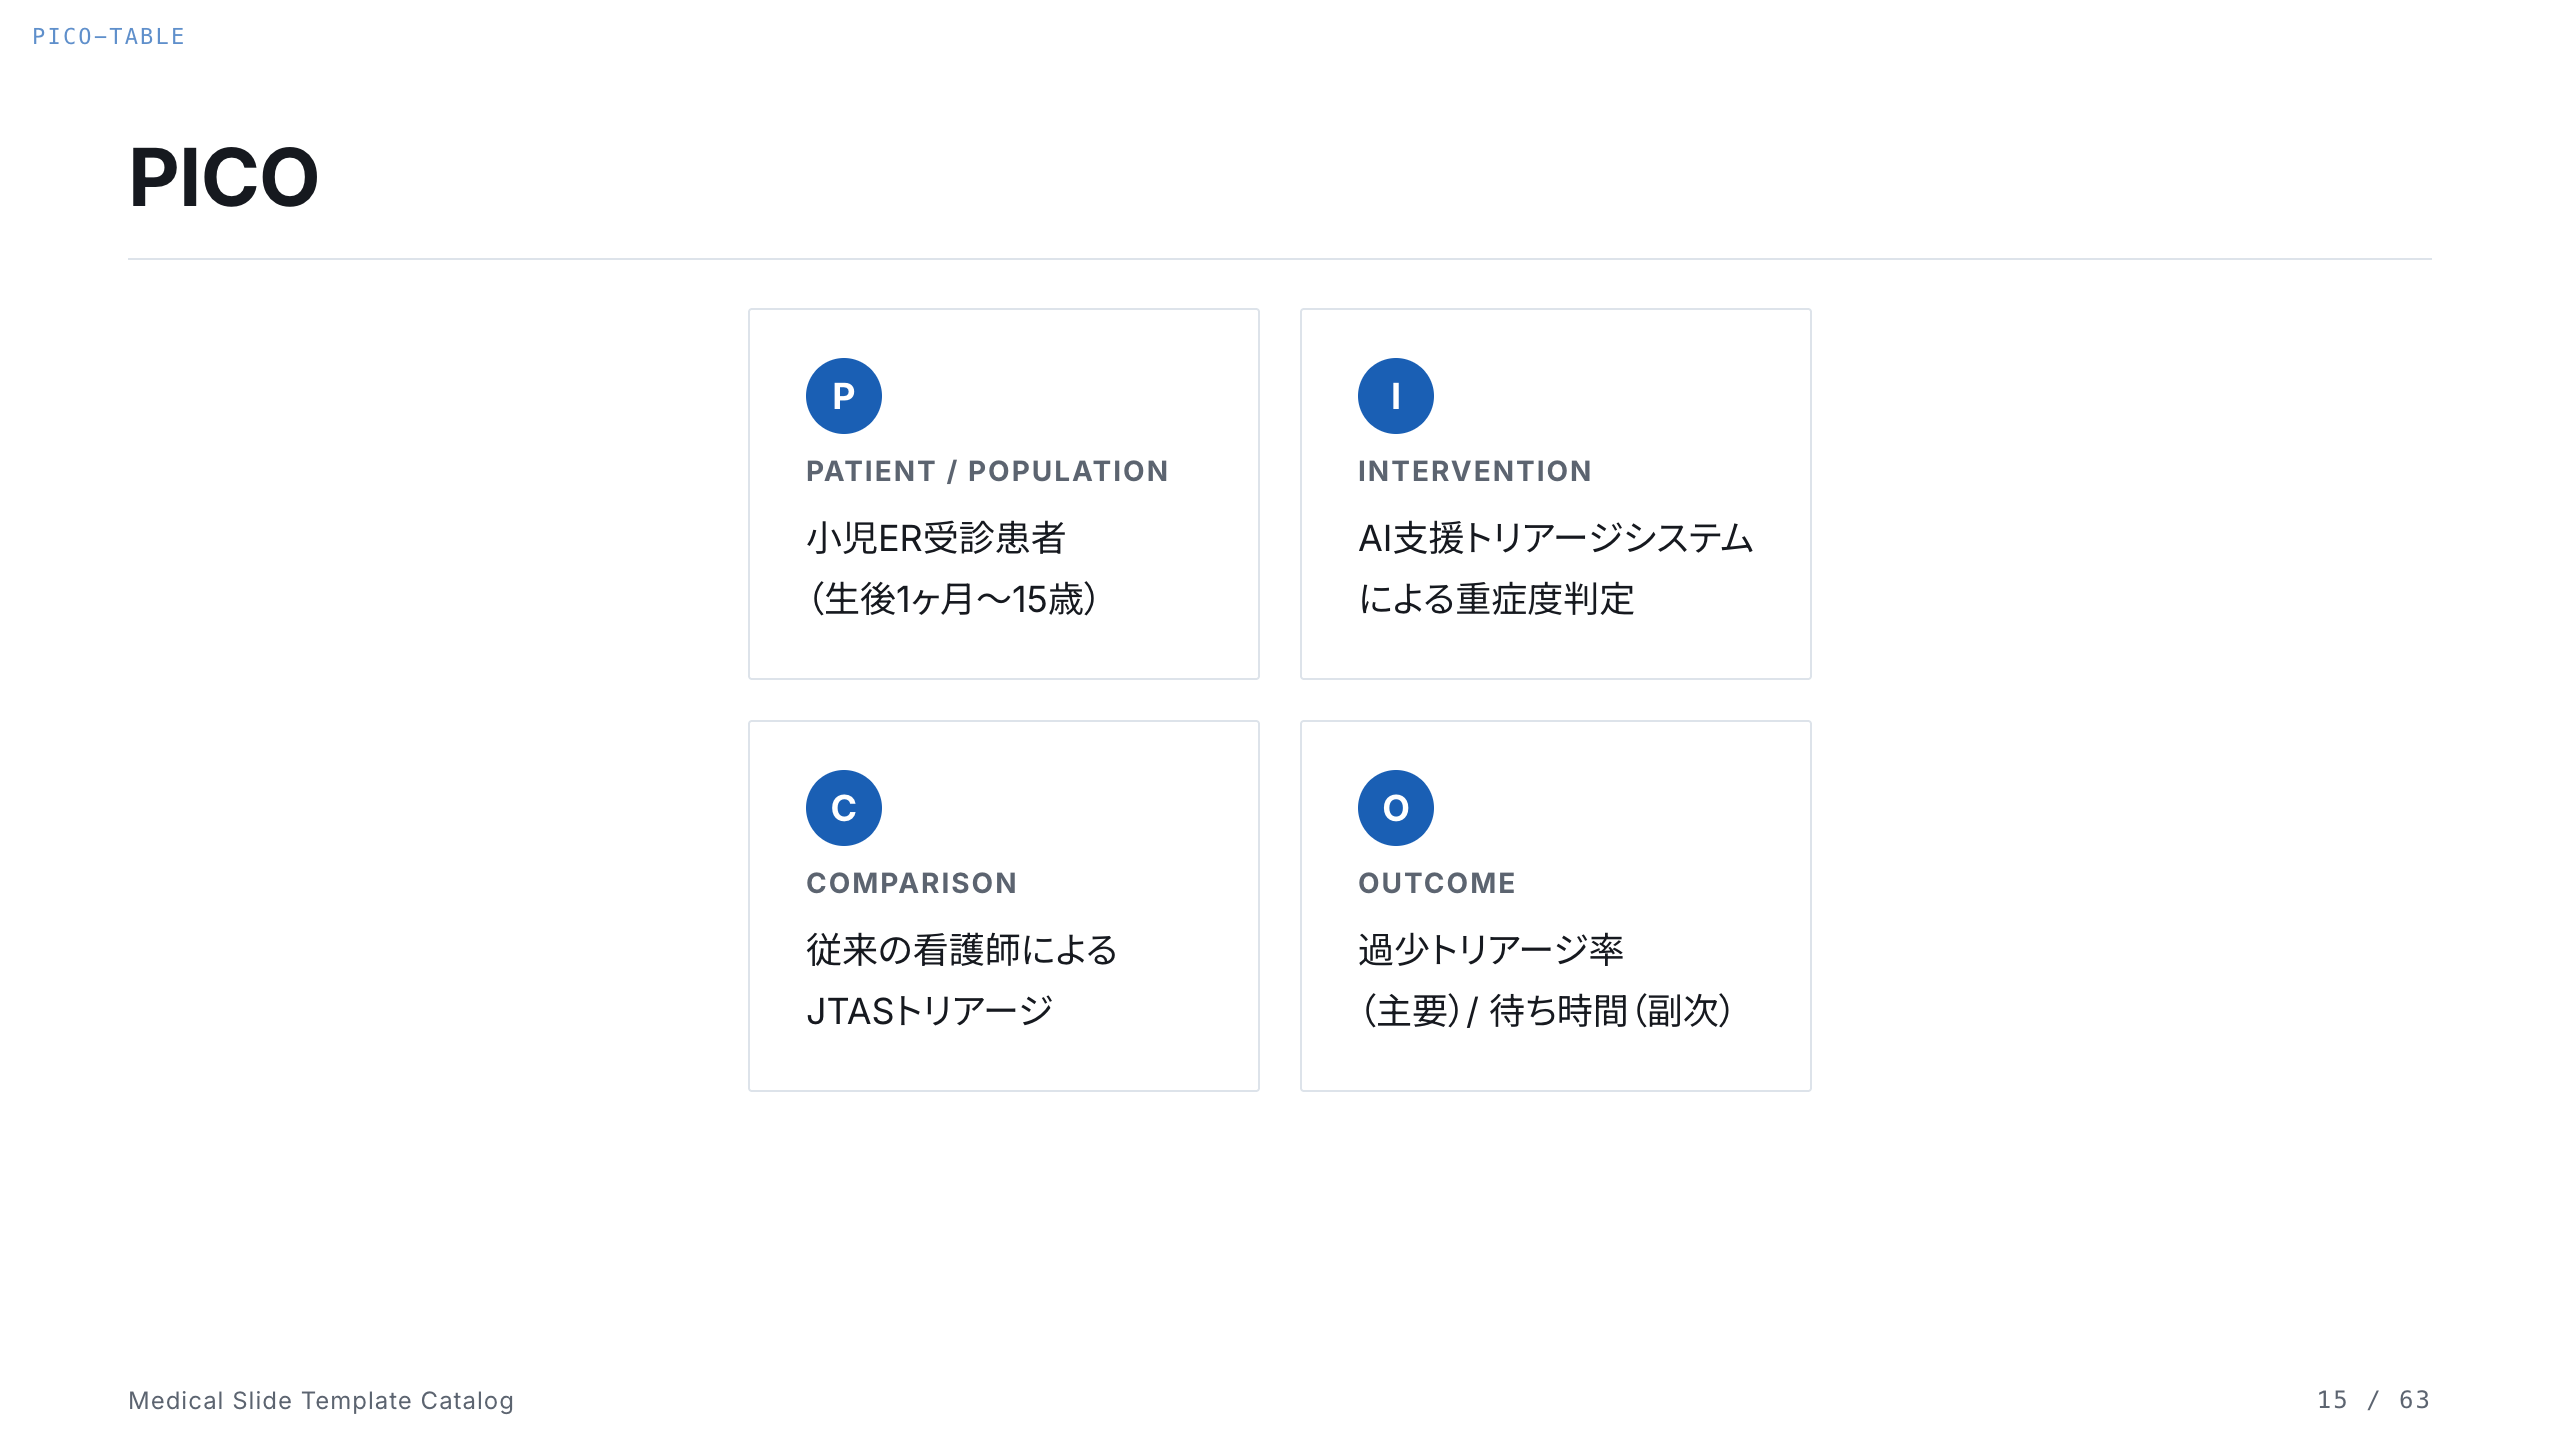
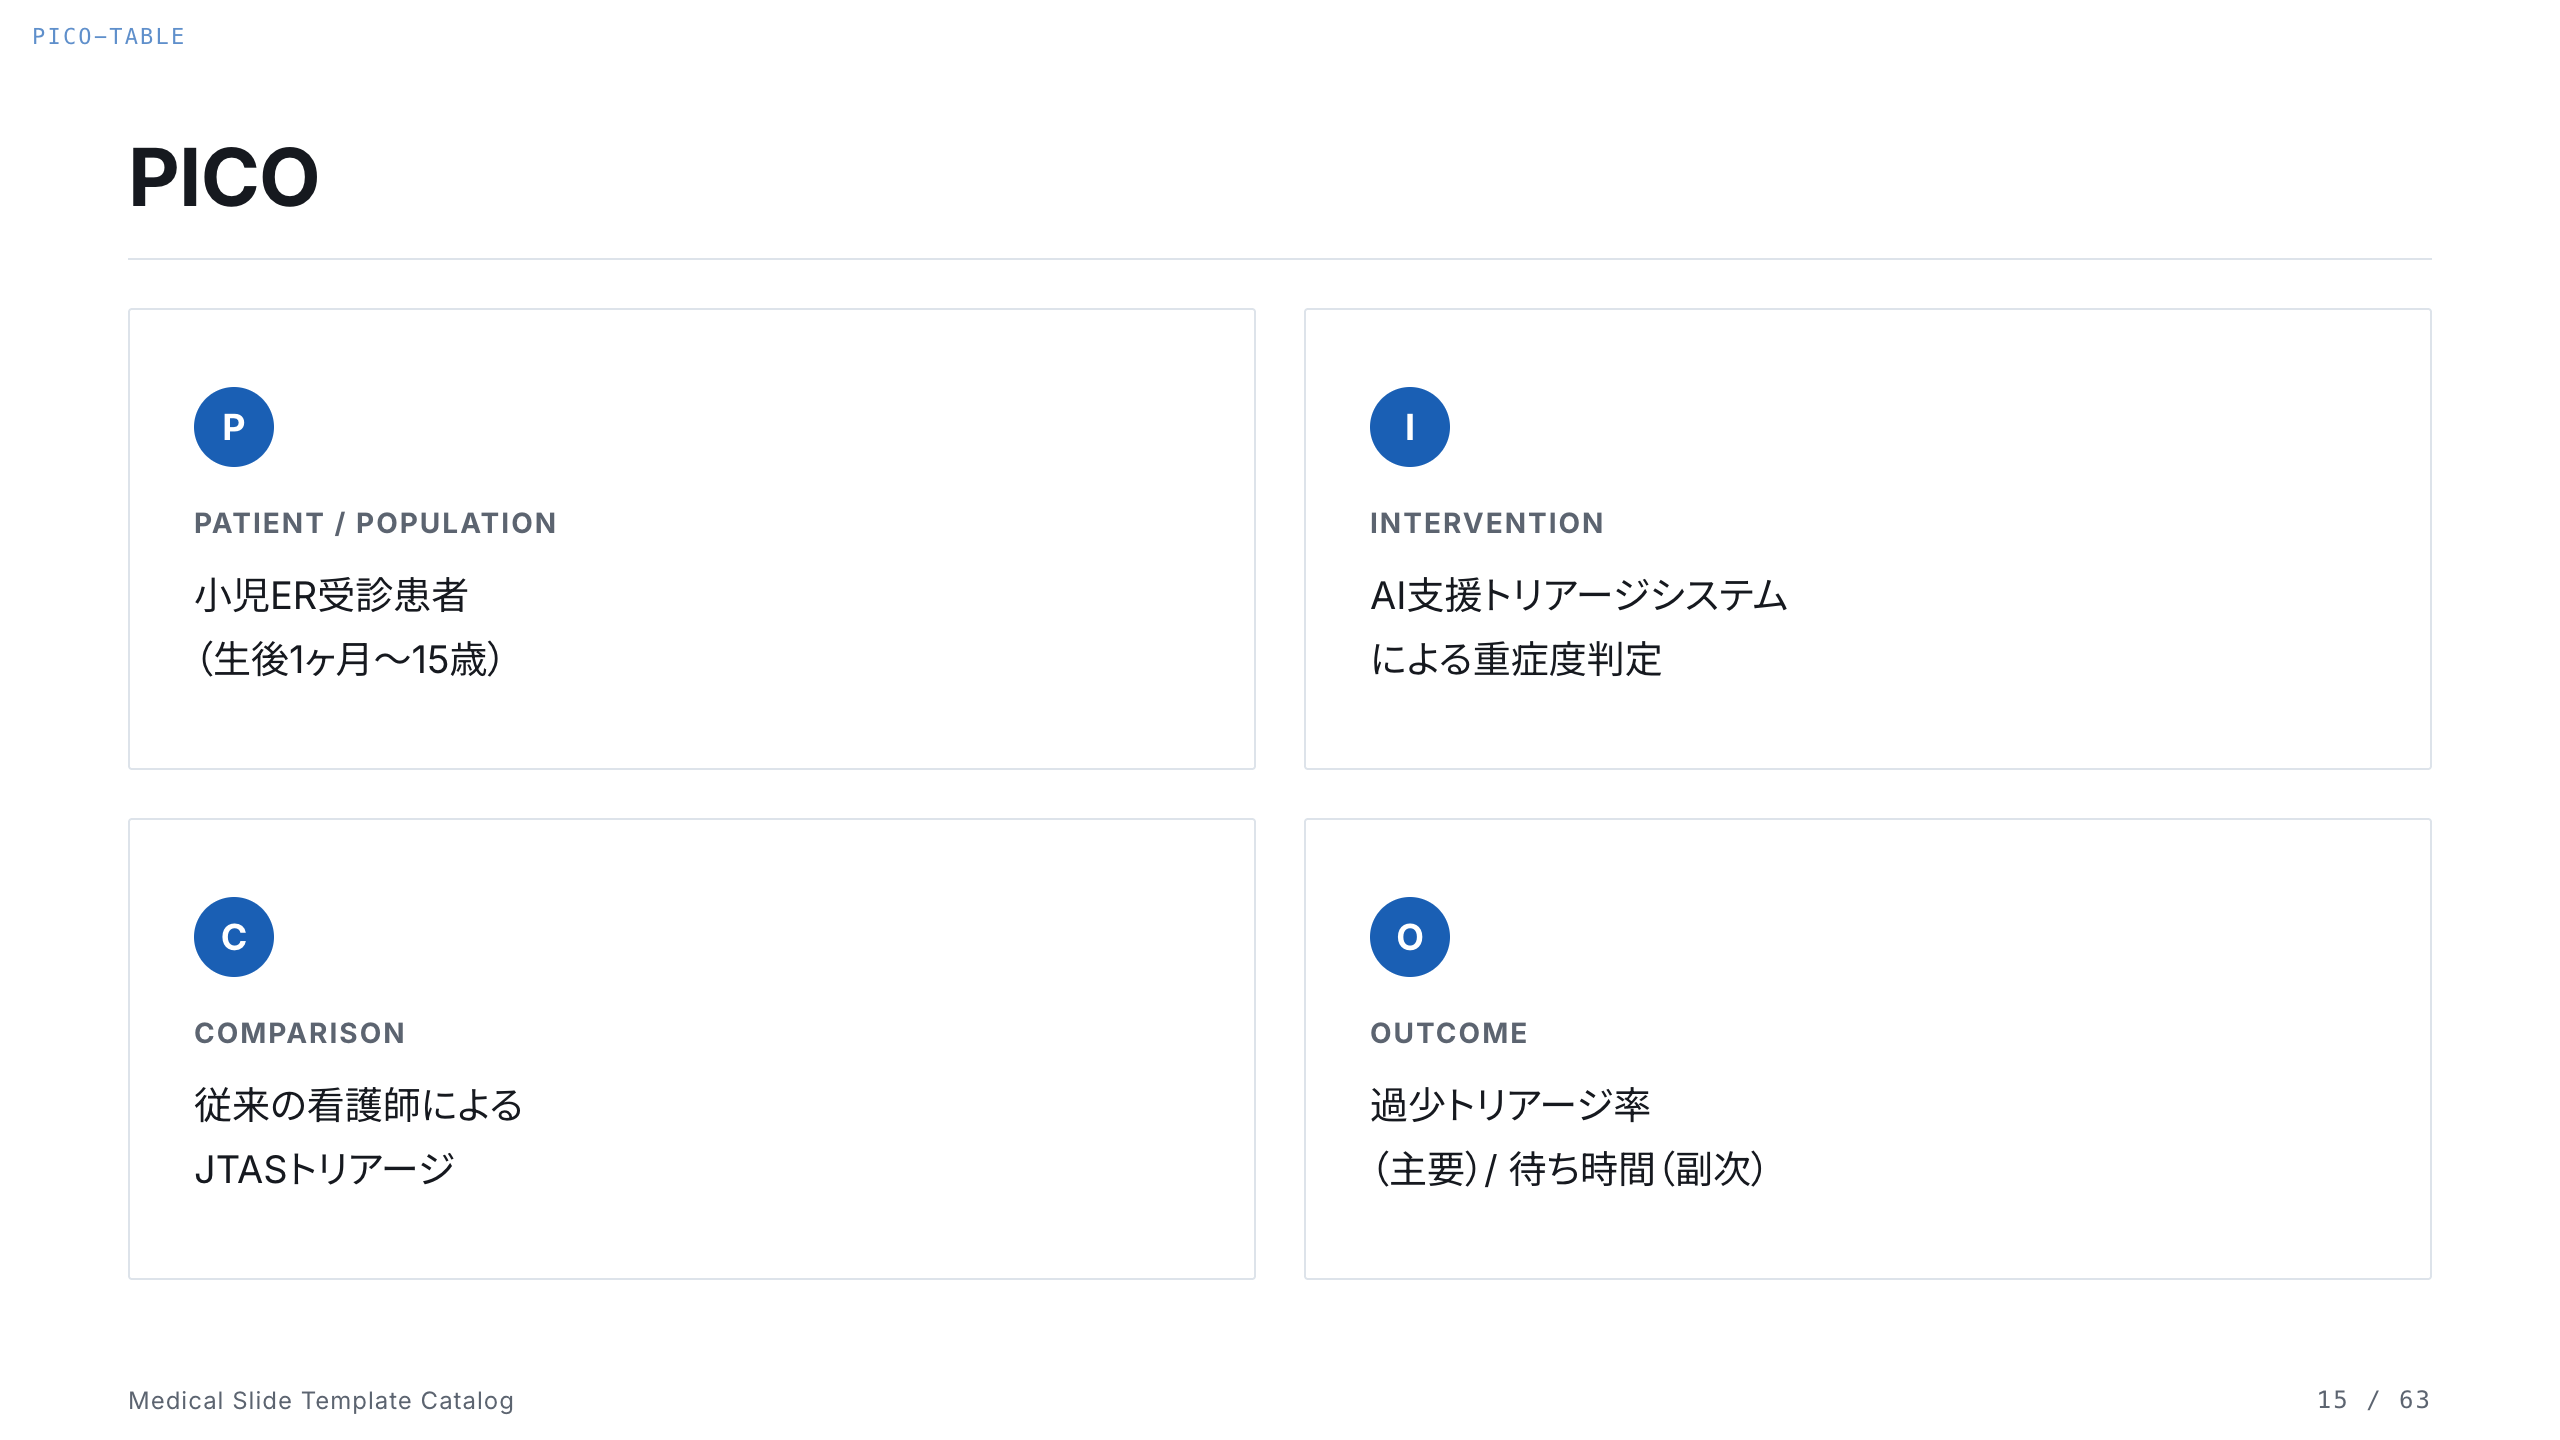
グリッドオーバーレイ（Gキー）＋PICOをグリッドに載せ替え (#4)
* prototype(grid): スライドグリッド＋Gキーオーバーレイをエンジンに試作

12カラム＋8pxベースライン＋余白フレームのデザインQAオーバーレイ。
既定は非表示・見た目への影響ゼロ。Gキーで body.grid-on をトグル。
slide-starterエンジンへ移植可能な非破壊レイヤー。

* feat(grid): Gキーのグリッドオーバーレイ＋PICOをグリッドに載せ替え

スライド設計のQAとして Müller-Brockmann 系の作図グリッドを導入。
- engine: 12カラム＋8pxベースライン＋余白フレームのオーバーレイを注入。
  Gキーで body.grid-on をトグル。既定は非表示・見た目への影響ゼロ。
  余白は --sp-xl（=.slide padding）連動でテーマに自動一致、テーマ非依存の
  マゼンタ線。
- PICO: 中央フロート(max-width/auto)を廃し、カードを cols1-6/7-12 に
  スナップ＋縦2行で充填＋ベースライン揃え（グリッドで既存スライドを
  調整した実例）。
- 15-pico.png 再生成。

---------

diff --git a/engine/slide.css b/engine/slide.css
@@ -158,3 +158,75 @@ body.capture .slide-ui { display: none !important; }
 
   .slide-ui { display: none !important; }
 }
+
+
+/* ============================================================
+   スライドグリッド（Müller-Brockmann系）＋ Gキーオーバーレイ
+   デザインQA用。既定は非表示。Gキーで body.grid-on をトグル。
+   余白はテーマの --sp-xl（=.slide の padding）に自動一致。
+   12カラム / 8pxベースライン。テーマ非依存のマゼンタ線。
+   見た目には一切影響しない（grid-on の時だけ重なる）。
+   ============================================================ */
+:root {
+  --grid-margin:   var(--sp-xl, 64px);
+  --grid-cols:     12;
+  --grid-gutter:   24px;
+  --grid-baseline: 8px;
+  --grid-lead:     24px;            /* leading = 3 × baseline */
+  --grid-fill:     rgba(232,28,92,.05);
+  --grid-line:     rgba(232,28,92,.55);   /* クラシックな製図マゼンタ */
+  --grid-minor:    rgba(232,28,92,.14);
+}
+
+.grid-overlay {
+  position: absolute;
+  inset: 0;
+  z-index: 90;
+  pointer-events: none;
+  opacity: 0;
+  transition: opacity .12s;
+}
+body.grid-on .grid-overlay { opacity: 1; }
+
+/* 12カラム（コンテンツと同じ余白ボックスに乗せる） */
+.grid-overlay .g-cols {
+  position: absolute;
+  inset: var(--grid-margin);
+  display: grid;
+  grid-template-columns: repeat(var(--grid-cols), 1fr);
+  column-gap: var(--grid-gutter);
+}
+.grid-overlay .g-cols span { background: var(--grid-fill); position: relative; }
+.grid-overlay .g-cols span::before {
+  content: attr(data-n);
+  position: absolute;
+  top: -15px; left: 0;
+  font: 9px/1 var(--font-mono, monospace);
+  letter-spacing: .05em;
+  color: var(--grid-line);
+}
+
+/* 8pxベースライン（24px毎に強い線、8px毎に細い線） */
+.grid-overlay .g-base {
+  position: absolute;
+  inset: var(--grid-margin);
+  background-image:
+    repeating-linear-gradient(to bottom, var(--grid-minor) 0 1px, transparent 1px var(--grid-baseline)),
+    repeating-linear-gradient(to bottom, var(--grid-line)  0 1px, transparent 1px var(--grid-lead));
+}
+
+/* 余白フレーム */
+.grid-overlay .g-frame {
+  position: absolute;
+  inset: var(--grid-margin);
+  outline: 1px solid var(--grid-line);
+}
+
+/* 右上の小ラベル */
+.grid-overlay .g-label {
+  position: absolute;
+  top: 14px; right: 16px;
+  font: 700 9px/1 var(--font-mono, monospace);
+  letter-spacing: .12em;
+  color: var(--grid-line);
+}

diff --git a/decks/medical-template-catalog/index.html b/decks/medical-template-catalog/index.html
@@ -310,31 +310,37 @@
     .forest-hr { font-weight: 600; color: #16191f; text-align: right; }
 
     /* === PICO表 === */
+    /* グリッドに乗せる：カードを cols1-6 / 7-12 に置き、縦は2行で充填。
+       中央フロート(max-width/auto)を廃し、列のガター(24px)＝6/7のカラム線に合わせる。 */
     .pico-grid {
       display: grid;
       grid-template-columns: 1fr 1fr;
-      gap: 20px;
-      max-width: 720px;
-      margin: 0 auto;
+      grid-template-rows: 1fr 1fr;
+      column-gap: var(--grid-gutter, 24px);
+      row-gap: var(--grid-gutter, 24px);
+      flex: 1;
     }
     .pico-cell {
       background: #fff;
       border: 1px solid #dde3ea;
       border-radius: 2px;
-      padding: 24px 28px;
+      padding: 32px;
+      display: flex;
+      flex-direction: column;
+      justify-content: center;
     }
     .pico-cell .pico-letter {
       display: inline-block;
-      width: 38px;
-      height: 38px;
+      width: 40px;
+      height: 40px;
       border-radius: 50%;
       background: #1a5fb4;
       color: #fff;
       font-weight: 700;
       font-size: 18px;
       text-align: center;
-      line-height: 38px;
-      margin-bottom: 10px;
+      line-height: 40px;
+      margin-bottom: 16px;
     }
     .pico-cell h4 {
       font-size: 14px;
@@ -342,9 +348,10 @@
       color: #5c6470;
       letter-spacing: 1px;
       text-transform: uppercase;
-      margin-bottom: 10px;
+      line-height: 24px;
+      margin-bottom: 8px;
     }
-    .pico-cell p { font-size: 18px; color: #16191f; line-height: 1.7; }
+    .pico-cell p { font-size: 19px; color: #16191f; line-height: 32px; }
 
     /* === バイアスリスク（Traffic Light） === */
     .rob-table {

diff --git a/engine/slide.js b/engine/slide.js
@@ -23,6 +23,7 @@
     if (['ArrowRight', 'ArrowDown', ' '].includes(e.key)) { e.preventDefault(); next(); }
     if (['ArrowLeft', 'ArrowUp'].includes(e.key))         { e.preventDefault(); prev(); }
     if (e.key === 'f' || e.key === 'F')                   { toggleFullscreen(); }
+    if (e.key === 'g' || e.key === 'G')                   { document.body.classList.toggle('grid-on'); }
   });
 
   // ── デッキクリック（ナビUI除く）──
@@ -96,8 +97,28 @@
     });
   }
 
+  // ── スライドグリッド・オーバーレイを注入（Gキーで表示） ──
+  function injectGrid() {
+    const deck = document.querySelector('.deck');
+    if (!deck || deck.querySelector('.grid-overlay')) return;
+    const cols = Number(getComputedStyle(document.documentElement)
+      .getPropertyValue('--grid-cols')) || 12;
+    const ov = document.createElement('div');
+    ov.className = 'grid-overlay';
+    ov.setAttribute('aria-hidden', 'true');
+    let spans = '';
+    for (let i = 1; i <= cols; i++) spans += `<span data-n="${i}"></span>`;
+    ov.innerHTML =
+      `<div class="g-base"></div>` +
+      `<div class="g-cols">${spans}</div>` +
+      `<div class="g-frame"></div>` +
+      `<div class="g-label">GRID · G</div>`;
+    deck.appendChild(ov);
+  }
+
   window.addEventListener('resize', scaleDeck);
   scaleDeck();
   injectPageNumbers();
+  injectGrid();
   show(0);
 })();